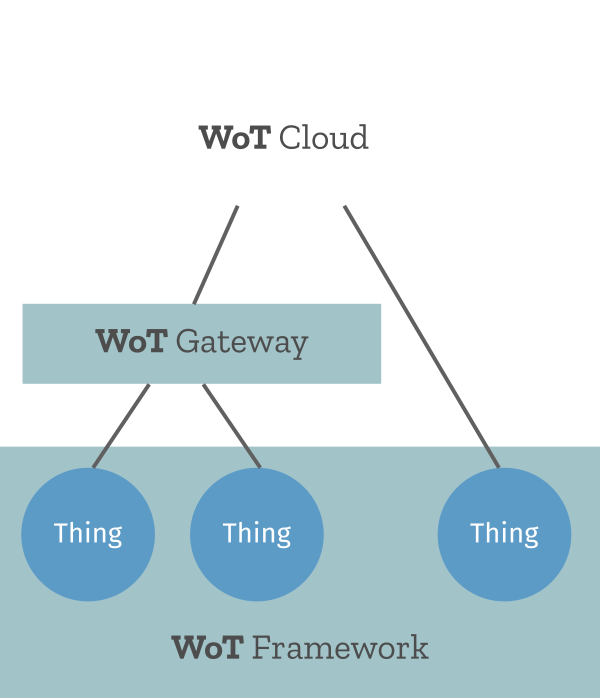
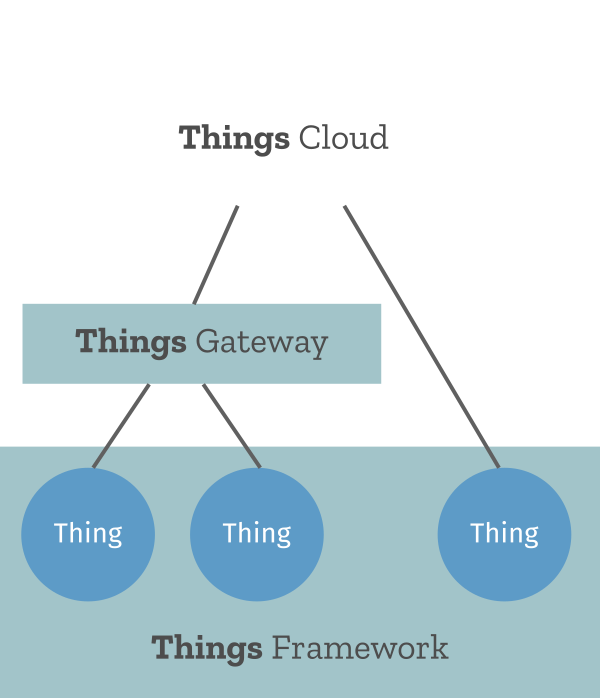
Project Things branding

Changed region(s): [[0.24, 0.9026, 0.75, 0.9628], [0.12, 0.4513, 0.54, 0.5115], [0.3, 0.1805, 0.66, 0.2407]]

diff --git a/about/index.html b/about/index.html
@@ -50,19 +50,21 @@
       </div>
     </section>
     <section id="mozilla-iot">
-      <h1>Project Mozilla IoT</h1>
-      <div class="column">
-        <p>Project Mozilla IoT is an experimental framework of software and services for connecting "things" to the web and will consist of three main components:</p>
-        <p><strong class="project-name">WoT Gateway</strong><br />
-        An implementation of a Web of Things gateway.</p>
-        <p><strong class="project-name">WoT Cloud</strong><br />
-        A collection of IoT cloud services.</p>
-        <p><strong class="project-name">WoT Framework</strong><br />
-        A collection of re-useable software components for building Web Things.</p>
-        <p>You can read more in our blog post "<a href="#">Building the Web of Things</a>".</p>
-      </div>
-      <div class="column">
-        <img src="images/mozilla_iot_illustration.png" />
+      <h1>Project Things <span class="by-mozilla">by Mozilla</span></h1>
+      <div>
+        <div class="column">
+          <p>Project Things is an experimental framework of software and services from Mozilla for connecting "things" to the web and will consist of three main components:</p>
+          <p><strong class="project-name">Things Gateway</strong><br />
+          An implementation of a Web of Things gateway.</p>
+          <p><strong class="project-name">Things Cloud</strong><br />
+          A collection of IoT cloud services.</p>
+          <p><strong class="project-name">Things Framework</strong><br />
+          A collection of re-useable software components for building Web Things.</p>
+          <p>You can read more in our blog post "<a href="#">Building a decentralized Internet of Things</a>".</p>
+        </div>
+        <div class="column">
+          <img src="images/mozilla_iot_illustration.png" />
+        </div>
       </div>
     </section>
     <footer>

diff --git a/index.html b/index.html
@@ -31,12 +31,12 @@
       <a id="menu-button"></a>
     </header>
     <section id="intro">
-      <h1>Building the Web of Things</h1>
+      <h1>Project Things <span class="by-mozilla">by Mozilla</span></h1>
       <img id="illustration" src="images/iot_illustration.png" />
       <a href="/about" class="button">Find out More</a>
     </section>
     <section id="gateway-section">
-      <h1><strong>WoT</strong> Gateway</h1>
+      <h1><strong>Things</strong> Gateway <span class="by-mozilla">by Mozilla</span></h1>
       <a href="gateway/"><img src="images/raspberry_pi.png" /></a>
       <p>Build your own Web of Things gateway</p>
       <a href="gateway/" class="button">Download</a>
@@ -61,7 +61,7 @@
           <p>Create an adapter to bridge an existing IoT device to the web</p>
         </div>
         <div class="contribution">
-          <h2>Hack on Mozilla IoT</h2>
+          <h2>Hack on Project Things</h2>
           <img src="images/code.png">
           <p>Help us develop our Web of Things implementation</p>
         </div>

diff --git a/css/site.css b/css/site.css
@@ -70,6 +70,15 @@ h2 {
   font-family: "Zilla Slab", "Open Sans", sans-serif;
 }
 
+.by-mozilla {
+  display: block;
+  width: 100%;
+  text-align: right;
+  font-family: "Open Sans", sans-serif;
+  font-size: 1.3rem;
+  font-weight: normal;
+}
+
 .button {
   display: block;
   background-color: #b6d806;
@@ -144,7 +153,7 @@ footer {
 }
 
 footer img {
-  height: 3.2rem;
+  height: 3rem;
 }
 
 footer ul {

diff --git a/css/home.css b/css/home.css
@@ -5,6 +5,10 @@
   color: #fff;
 }
 
+#intro h1 {
+  display: inline-block;
+}
+
 #illustration {
   display: block;
   width: 60rem;
@@ -22,6 +26,7 @@
 
 #gateway-section h1 {
   font-weight: normal;
+  display: inline-block;
 }
 
 #gateway-section img {
@@ -41,6 +46,7 @@
 #specification-section img {
   height: 26.6rem;
   margin: 1rem;
+  margin-top: 2.8rem;
 }
 
 #get-involved-section {

diff --git a/gateway/index.html b/gateway/index.html
@@ -32,7 +32,7 @@
     </header>
     <section id="intro">
       <h1>Build Your Own Web of Things Gateway</h1>
-      <h2><strong>WoT</strong> Gateway</h2>
+      <h2><strong>Things</strong> Gateway <span class="by-mozilla">by Mozilla</span></h2>
       <img src="../images/raspberry_pi.png" />
     </section>
     <section id="instructions">

diff --git a/about/css/about.css b/about/css/about.css
@@ -48,6 +48,12 @@ section p {
 #mozilla-iot {
   background-color: #5d9bc7;
   color: #fff;
+  text-align: center;
+}
+
+#mozilla-iot h1 {
+  display: inline-block;
+  text-align: center;
 }
 
 #mozilla-iot img {

diff --git a/gateway/css/gateway.css b/gateway/css/gateway.css
@@ -10,6 +10,12 @@ section p {
 #intro {
   background-color: #5d9bc7;
   color: #fff;
+  text-align: center;
+}
+
+#intro h2 {
+  display: inline-block;
+  font-size: 2.6rem;
 }
 
 #intro img {
